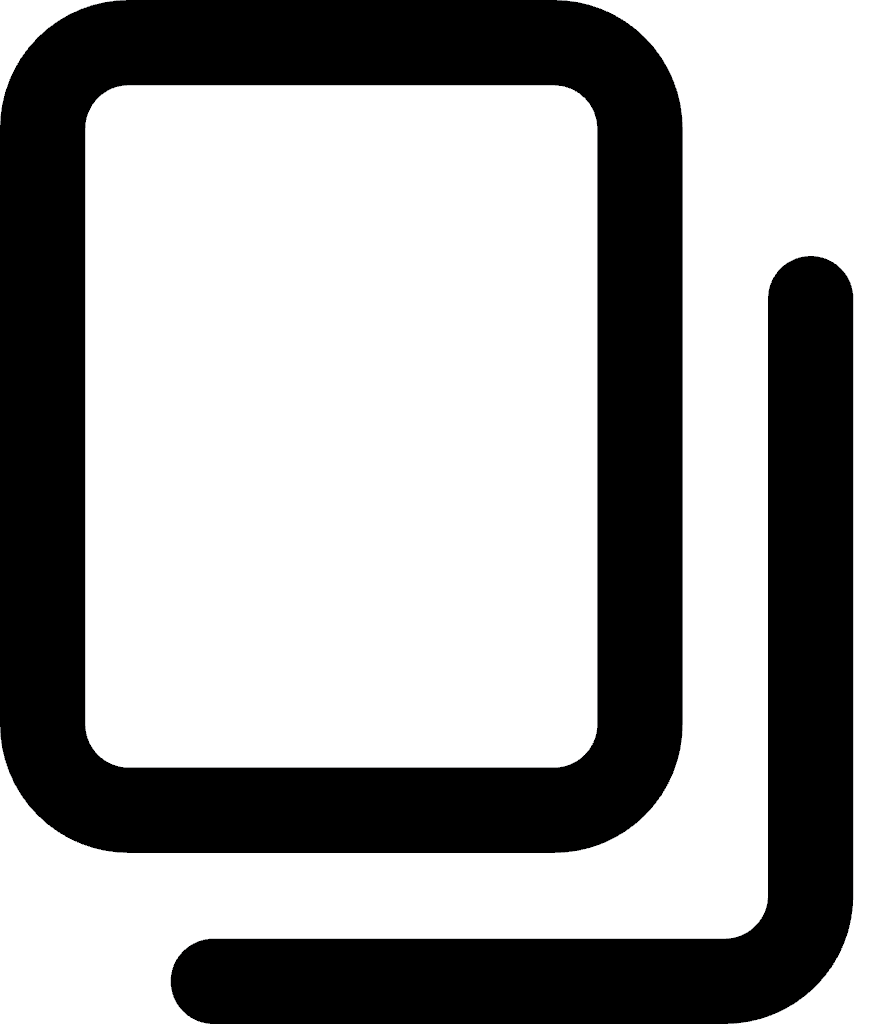
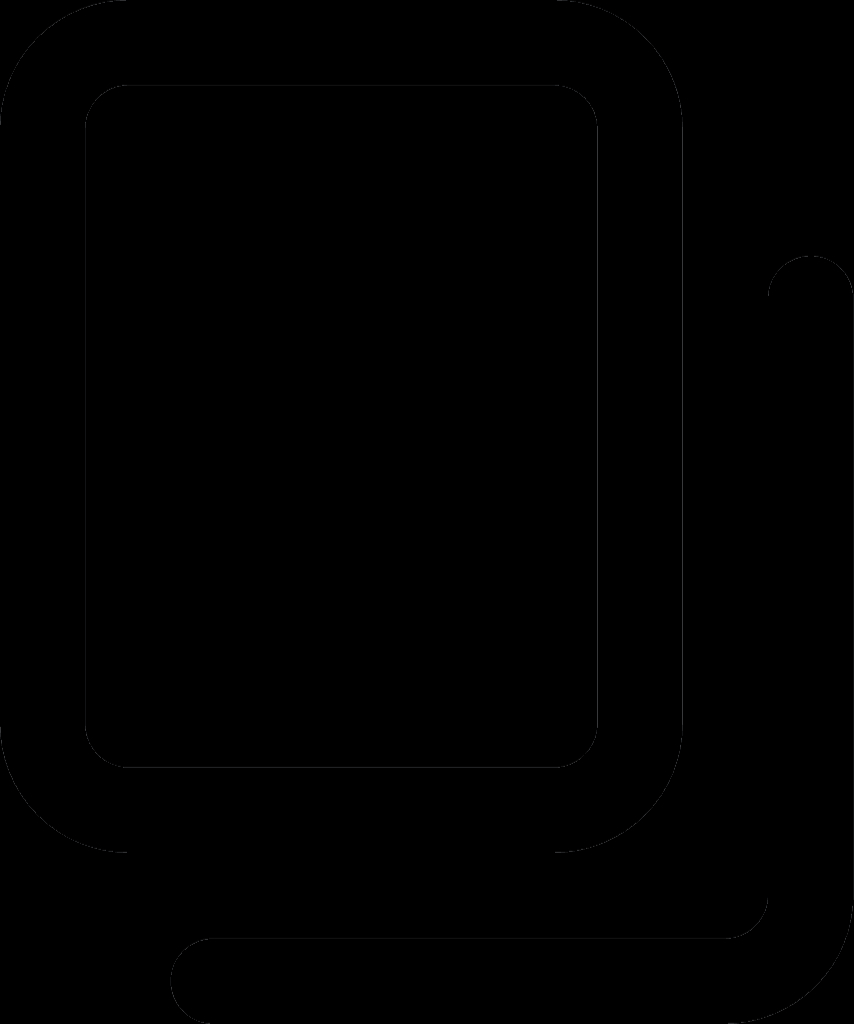
added logout popup

diff --git a/src/Dashboard/DashboardHeader.jsx b/src/Dashboard/DashboardHeader.jsx
@@ -49,12 +49,18 @@ function UploadBar({activeTab,openUpload}) {
 export default function DashboardHeader({openUpload,changeActiveTab,activeTab}) {
   const [userName, setUserName] = useState('');
   const [userPFP, setUserPFP] = useState('');
+  const [userEmail, setUserEmail]= useState('')
+  const [isLogoutPopup,setLogoutPopup]=useState(false);
+  
 
   useEffect(() => {
     getUserName();
   }, []);
   useEffect(() => {
     getUserPFP();
+  }, []);
+  useEffect(() => {
+    getUserEmail();
   }, []);
 
   async function getUserName() {
@@ -63,6 +69,14 @@ export default function DashboardHeader({openUpload,changeActiveTab,activeTab}) 
       setUserName(attributes.name || attributes.email);
     } catch (error) {
       console.error('Error fetching user attributes:', error);
+    }
+  }
+  async function getUserEmail() {
+    try {
+      const attributes = await fetchUserAttributes();
+      setUserEmail(attributes.email || attributes.name);
+    } catch (error) {
+      console.error('Error fetching user Email:', error);
     }
   }
 
@@ -127,7 +141,7 @@ const handleSignOut = async () => {
             <span>Files</span>
             
           </button>
-          <div className='PFPWrapper'>
+          {/* <div className='PFPWrapper'>
           <button className='PFPButton'>
             <img 
               className='userPFP' 
@@ -148,23 +162,85 @@ const handleSignOut = async () => {
           <button className='upgradeButton'>
               Upgrade
             </button>
-          </div>
-         
+          </div> */}
         </div>
         <div className='dashboardBody'>
             <div className='dashboardBodyHeader'>
               <UploadBar activeTab={activeTab} openUpload={openUpload} />
             </div>
         </div>
+
+
+        {isLogoutPopup && (
+          <div className="logoutPopupContainer">
+            <div className="logoutPopup">
+
+              
+          <div className='logoutPopupPFP'>
+          <div className='PFPWrapper'>
+          <button className='PFPButtonPopup'>  {/* leaving this a button in case want to do something with it */}
+            <img 
+              className='userPFPPopup' 
+              src={userPFP} 
+              alt='profile picture'
+              onError={(e) => {
+                console.log('Image failed to load:', userPFP);
+                e.target.src = "https://askthescientists.com/wp-content/uploads/2021/04/AdobeStock_240042551-scaled.jpeg";
+              }}
+            />
+            <div>
+            <span className='userNameText'>{userName}</span>
+            <p className='accountEmailDisplayPopup'>{userEmail}</p>
+            </div>
+          </button>
+          </div>
+          </div>
+      
+          <div className='logoutPopupContent'>
+            <div className='popupUpgradePlan'>
+                <button className='bottomDashboardSideButtons' >
+                        <img className='sidebarIcon' src='/starIcon.png' alt='Support icon'/>
+                        <span>Upgrade Plan</span>
+                    </button>
+
+          </div>
+              <button className='bottomDashboardSideButtons' >
+                    <img className='sidebarIcon' src='https://uxwing.com/wp-content/themes/uxwing/download/computers-mobile-hardware/headphone-headset-icon.png' alt='Support icon'/>
+                    <span>Support</span>
+                </button>
+                <button className='bottomDashboardSideButtons' onClick={handleSignOut}>
+                    <img className='sidebarIcon' src='https://uxwing.com/wp-content/themes/uxwing/download/web-app-development/log-in-icon.png' alt='Logout icon'/>
+                    <span>Sign Out</span>
+                </button>
+          </div>
+      
+            </div>
+          </div>
+        )}
         <div className='logOutSection'>
-            <button className='bottomDashboardSideButtons' >
-                <img className='sidebarIcon' src='https://uxwing.com/wp-content/themes/uxwing/download/communication-chat-call/question-inquiry-icon.png' alt='Support icon'/>
-                <span>Support</span>
+          
+             <div className={isLogoutPopup ? 'activePFPWrapper':'PFPWrapper'}>
+          <button className='PFPButton' onClick={()=> setLogoutPopup(!isLogoutPopup)}>
+            <img 
+              className='userPFP' 
+              src={userPFP} 
+              alt='profile picture'
+              onError={(e) => {
+                console.log('Image failed to load:', userPFP);
+                e.target.src = "https://askthescientists.com/wp-content/uploads/2021/04/AdobeStock_240042551-scaled.jpeg";
+              }}
+            />
+            <div>
+            <span className='userNameText'>{userName}</span>
+            <p className='accountTierDisplay'>Free</p>
+            </div>
+           
+           
+          </button>
+          <button className='upgradeButton'>
+              Upgrade
             </button>
-            <button className='bottomDashboardSideButtons' onClick={handleSignOut}>
-                <img className='sidebarIcon' src='https://uxwing.com/wp-content/themes/uxwing/download/web-app-development/logout-line-icon.png' alt='Logout icon'/>
-                <span>Sign Out</span>
-            </button>
+          </div>
         </div>
       </>
     )

diff --git a/src/Dashboard/DashboardHeader.css b/src/Dashboard/DashboardHeader.css
@@ -28,7 +28,7 @@ html, body {
   top: 0;
   left: 0;
   width: 220px; /* fixed sidebar width */
-  z-index: 999;
+  z-index: 998;
   border-top: none;
   background-color: rgb(246, 246, 246);
 }
@@ -39,7 +39,7 @@ html, body {
   align-items: center; 
   border-radius: 6px; 
   width: 90%; 
-  height: 40px; 
+  height: 35px; 
   margin: 1% auto 0 auto; 
   border: 2px solid transparent; 
   padding: 0.5rem; 
@@ -55,24 +55,24 @@ html, body {
 .bottomDashboardSideButtons {
   display: flex; 
   align-items: center; 
-  justify-content: flex-start; /* keeps icon + text aligned left inside the button */
   border-radius: 6px; 
   width: 90%; 
-  height: 50px; 
+  height: 35px; 
+  margin: 1% auto 0 auto; 
   border: 2px solid transparent; 
   padding: 0.5rem; 
   cursor: pointer; 
   font-size: 87%; 
   text-align: left; 
   gap: 0.5rem; 
-  font-family: applethin, arial, sans-serif; 
+  font-family: applemedium,arial,sans-serif; 
   background-color: transparent; 
   color: rgb(48, 48, 48);
-  margin: 0 auto 0 auto; /* centers the button horizontally */
+
 }
 
 .bottomDashboardSideButtons:hover{
-  background-color: rgb(234, 233, 233); 
+  background-color: rgb(224, 223, 223); 
   color: rgb(0, 0, 0);
 
 }
@@ -87,7 +87,7 @@ html, body {
   align-items: center; 
   border-radius: 6px; 
   width: 90%; 
-  height: 40px; 
+  height: 35px; 
   margin: 1% auto 0 auto; 
   border: 2px solid transparent; 
   padding: 0.5rem; 
@@ -106,6 +106,12 @@ html, body {
 .userPFP{
   width: 2rem;  /* Adjust this for size */
   height: 2rem; /* Keep same as width for perfect circle */
+  border-radius: 50%; /* Makes it circular */
+  object-fit: cover;
+}
+.userPFPPopup{
+  width: 1.6rem;  /* Adjust this for size */
+  height: 1.6rem; /* Keep same as width for perfect circle */
   border-radius: 50%; /* Makes it circular */
   object-fit: cover;
 }
@@ -145,10 +151,26 @@ html, body {
   flex-direction: row;
   align-items: center;
   border-radius: 6px; 
-  width: 90%; 
-  height: 40px; 
+  width: 95%; 
+  height: 60px; 
   margin: 1% auto 0 auto; 
   border: 2px solid transparent; 
+}
+
+.PFPButtonPopup{
+  display: flex; 
+  align-items: center; 
+  border-radius: 6px; 
+  width: 100%; 
+  height: 40px; 
+  border: 2px solid transparent; 
+   
+  font-size: 87%; 
+  gap: 0.5rem; 
+  font-family: applemedium,arial,sans-serif; 
+  background-color: transparent; 
+  color: rgb(48, 48, 48); 
+  
 }
 .PFPButton{
   display: flex; 
@@ -169,6 +191,62 @@ html, body {
     color: rgb(0, 0, 0);
 
   }
+  .activePFPWrapper{
+    display: flex;
+  flex-direction: row;
+  align-items: center;
+  border-radius: 6px; 
+  width: 95%; 
+  height: 60px; 
+  margin: 1% auto 0 auto; 
+  border: 2px solid transparent; 
+  background-color: rgb(238, 238, 238); 
+  color: rgb(0, 0, 0);
+
+  }
+
+.logoutPopupContainer,.logoutPopup{
+  z-index: 3000;
+}
+.logoutPopupContainer{
+  position: fixed;
+  bottom: 70px; /* place above logout section */
+  left: 5px;
+  width: 210px;
+  height: auto;
+  border-radius: 15px;
+  background-color: rgb(234, 233, 233); 
+}
+
+.logoutPopupContent::before {
+  content: '';
+  position: absolute;
+  left: 10%;             /* start 10% from the left */
+  width: 80%;            /* make it 80% of container width */
+  height: 1.3px;           /* thickness of the line */
+  background-color: rgb(209, 209, 209); /* line color */
+  margin-top: -7px;
+}
+
+.accountEmailDisplayPopup{
+  white-space: nowrap;
+  overflow: hidden;
+  text-overflow: ellipsis;
+  max-width: 130px; /* or whatever width you want */
+  margin: 0;
+  font-size: 12px;
+  margin-top: 2px;
+
+}
+
+.PFPButtonPopup > div {
+  display: flex;
+  flex-direction: column;
+  justify-content: center;
+  align-items: flex-start;
+}
+
+
 .sidebarIcon { 
   height: 1rem; 
   width: auto; 
@@ -191,7 +269,9 @@ html, body {
   bottom: 0;
   left: 0;
   width: 220px;
-  height: 145px;
+  height: auto;
+  padding-top: 5px;
+  padding-bottom: 5px;
   z-index: 2000;
   background-color: rgb(246, 246, 246);
   border: 1px solid #e4e4e4;
